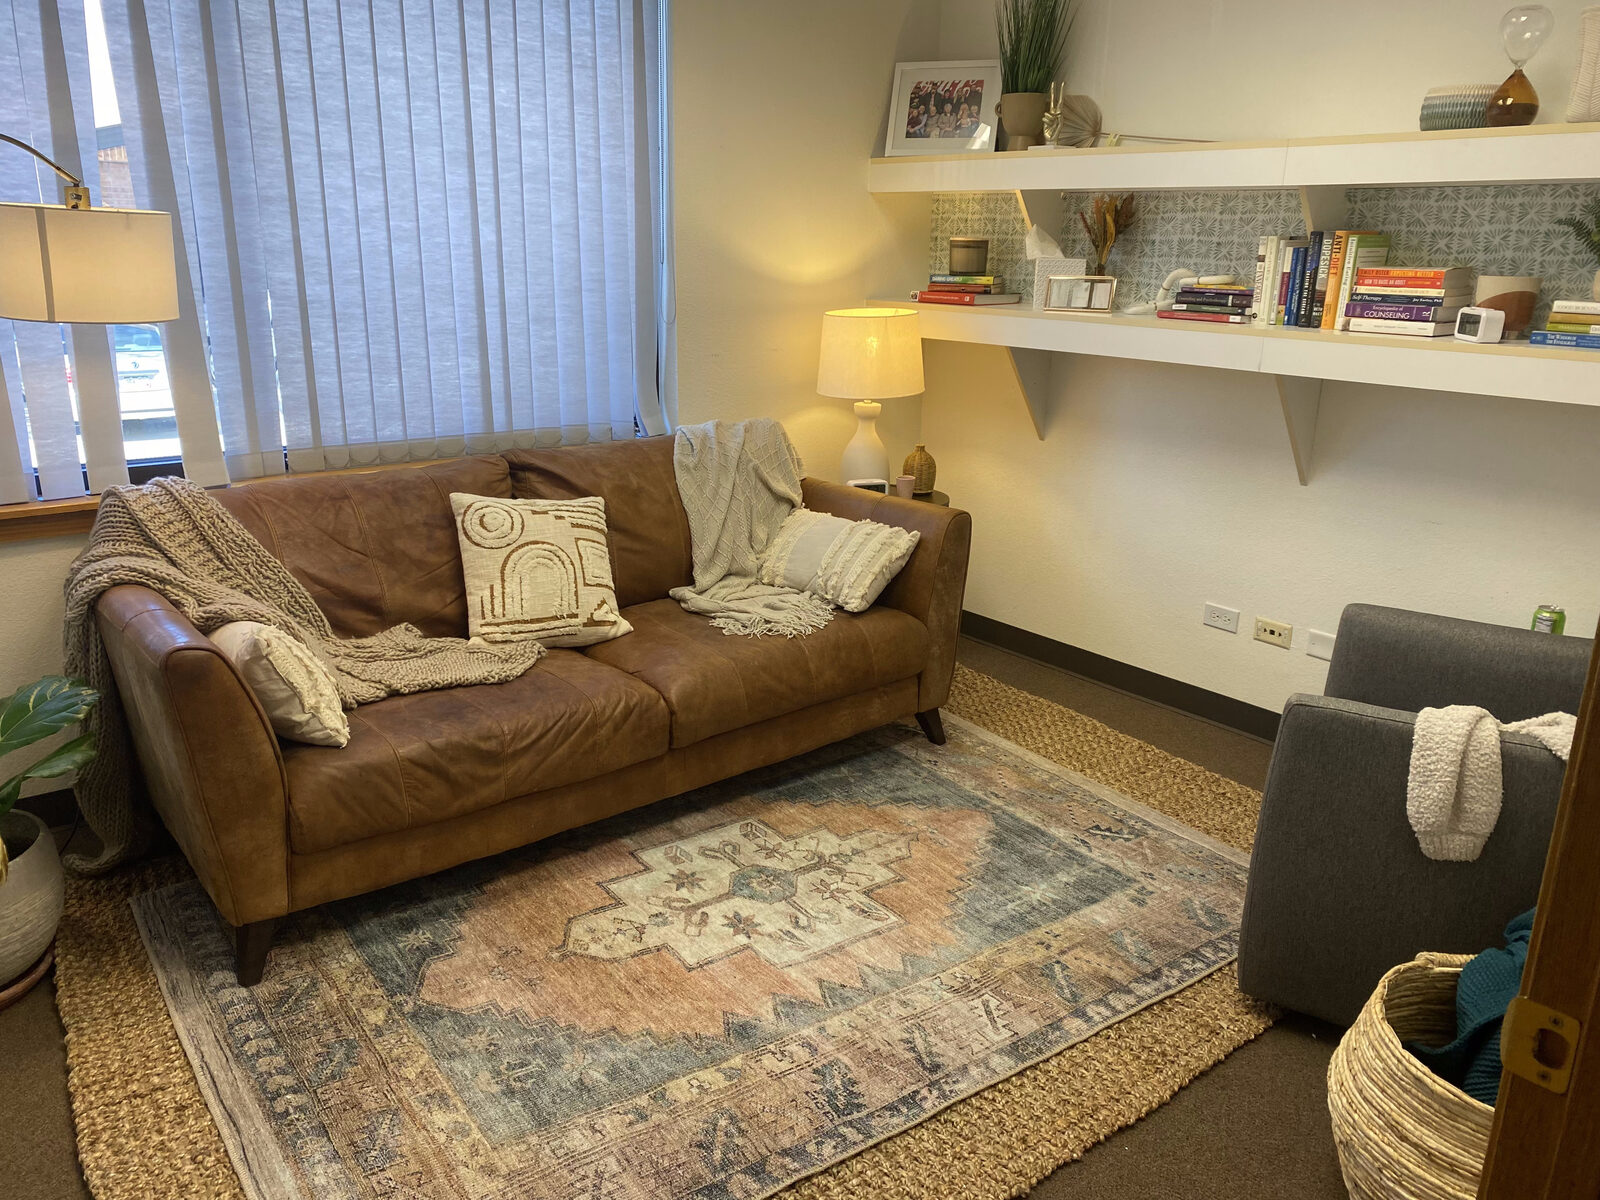
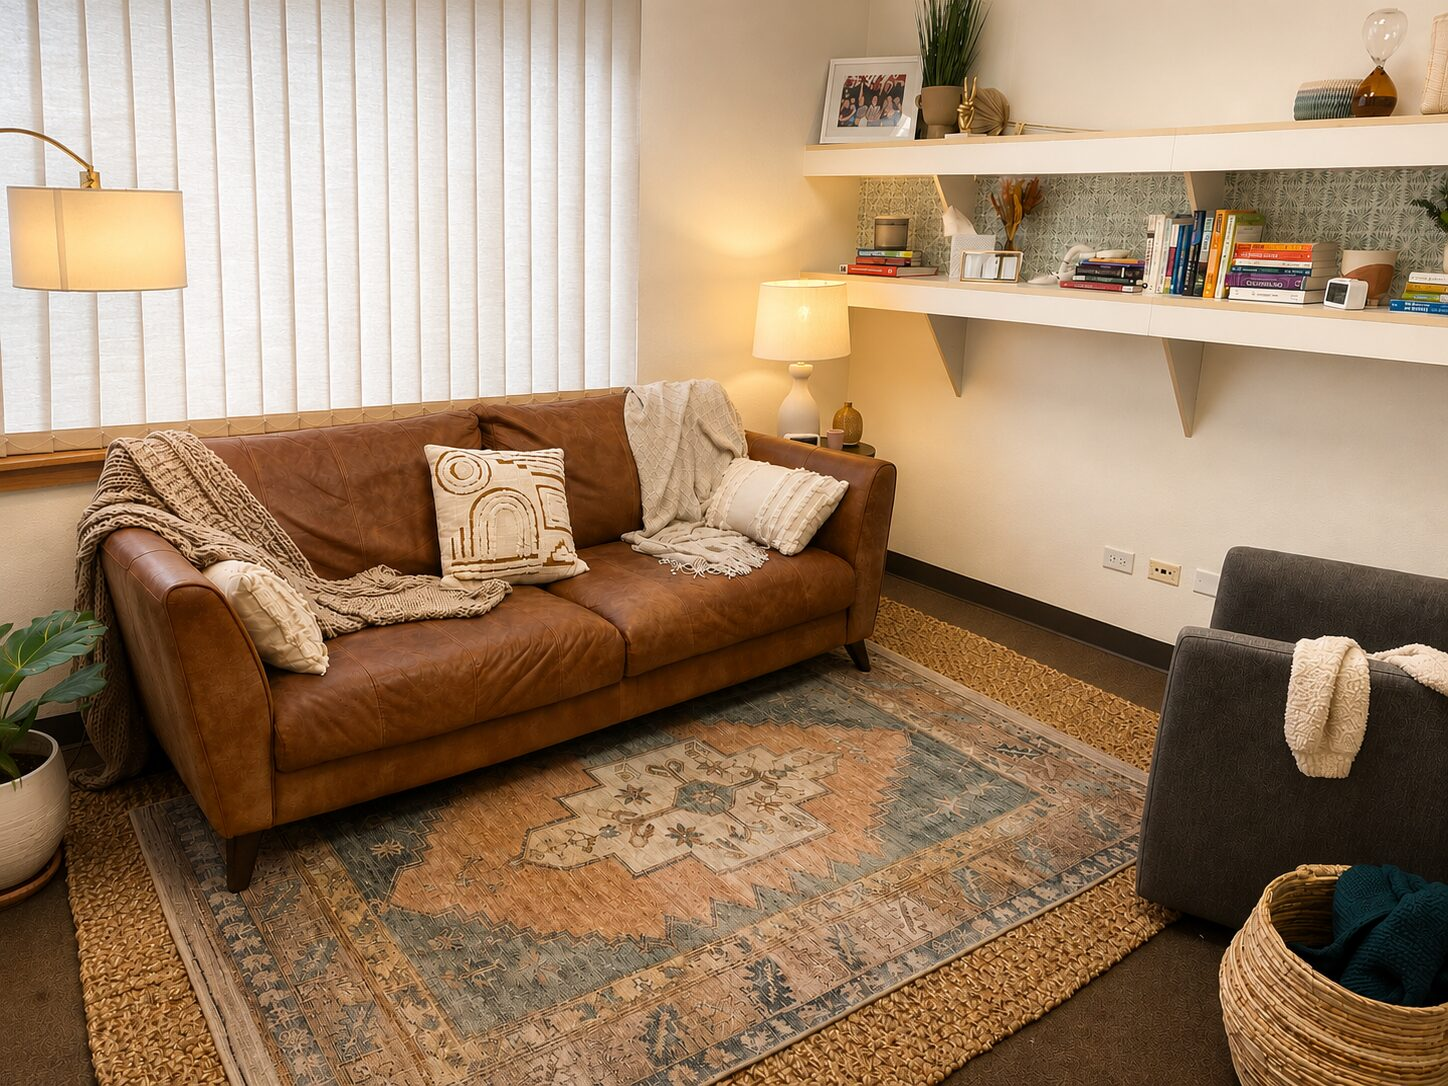
Swap Boulder office photo for professional shot; update hero + OG image dimensions

diff --git a/boulder/index.html b/boulder/index.html
@@ -47,8 +47,8 @@
 <meta content="https://fullbloomcounseling.com/images/boulder-office-full-bloom-counseling.jpg" property="og:image"/>
 <meta property="og:image:secure_url" content="https://fullbloomcounseling.com/images/boulder-office-full-bloom-counseling.jpg">
 <meta property="og:image:type" content="image/jpeg">
-<meta property="og:image:width" content="1600">
-<meta property="og:image:height" content="1200">
+<meta property="og:image:width" content="1448">
+<meta property="og:image:height" content="1086">
 
 <meta content="en_US" property="og:locale"/>
 <meta content="summary_large_image" name="twitter:card"/>
@@ -263,7 +263,7 @@
 </div>
 <main id="main">
 <div class="page-hero">
-  <img class="page-hero-img" src="../images/boulder-office-full-bloom-counseling.jpg" alt="Warm, inviting therapy office interior at Full Bloom Counseling's Boulder location — leather couch, soft textiles, and a bookshelf" style="object-position:center 55%;" fetchpriority="high" loading="eager" decoding="async" width="1600" height="1200">
+  <img class="page-hero-img" src="../images/boulder-office-full-bloom-counseling.jpg" alt="Warm, inviting therapy office interior at Full Bloom Counseling's Boulder location — leather couch, soft textiles, and a bookshelf" style="object-position:center 55%;" fetchpriority="high" loading="eager" decoding="async" width="1448" height="1086">
   <div class="page-hero-overlay" aria-hidden="true"></div>
   <div class="page-hero-content">
     <div class="container">
